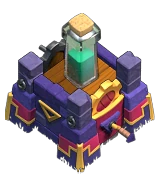
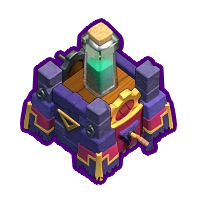
Variable spell tower images initial commit

diff --git a/scripts/script.js b/scripts/script.js
@@ -30,7 +30,8 @@ docReady(() => {
 	const ccTextEl = document.getElementById("ccText");
 	const stTextEl = document.getElementById("stText");
 	const xbTextEl = document.getElementById("xbText");
-  const baseLink = document.getElementById("baseLink");
+	const baseLink = document.getElementById("baseLink");
+	const spellTower = document.getElementById("spelltower");
 
 	// Load months json
 	fetch(`${BASE_URL}/months.json`)
@@ -132,6 +133,24 @@ docReady(() => {
 		const month = months[monthIndex];
 		const entry = bases[baseIndex];
 
+		console.log(entry.st);
+    console.log(spellTower);
+    
+
+		if (entry.st.includes("Rage") && entry.st.includes("Poison")) {
+			spellTower.src = `STRP.png`;
+		} else if (entry.st.includes("Rage") && entry.st.includes("Invis")) {
+			spellTower.src = `STRI.png`;
+		} else if (entry.st.includes("Poison") && entry.st.includes("Invis")) {
+			spellTower.src = `STPI.png`;
+		} else if (entry.st.includes("Rage")) {
+			spellTower.src = `STR.png`;
+		} else if (entry.st.includes("Poison")) {
+			spellTower.src = `STP.png`;
+		} else if (entry.st.includes("Invis")) {
+			spellTower.src = `STI.png`;
+		}
+
 		currentBaseLabel.textContent = `Base ${baseIndex + 1}`;
 		updateBaseNav();
 
@@ -145,7 +164,7 @@ docReady(() => {
 				.join(", ") || "N/A";
 		stTextEl.textContent = entry.st || "N/A";
 		xbTextEl.textContent = entry.xb || "N/A";
-    baseLink.href = entry.url;
+		baseLink.href = entry.url;
 	}
 
 	// Helpers to toggle buttons

diff --git a/index.html b/index.html
@@ -38,7 +38,7 @@
 				<div class="info-section">
 					<img
 						id="spelltower"
-						src="images/ST.png"
+						src="images/STR.png"
 						alt="Spell Tower"
 					/>
 					<p id="stText" class="info-text"></p>
